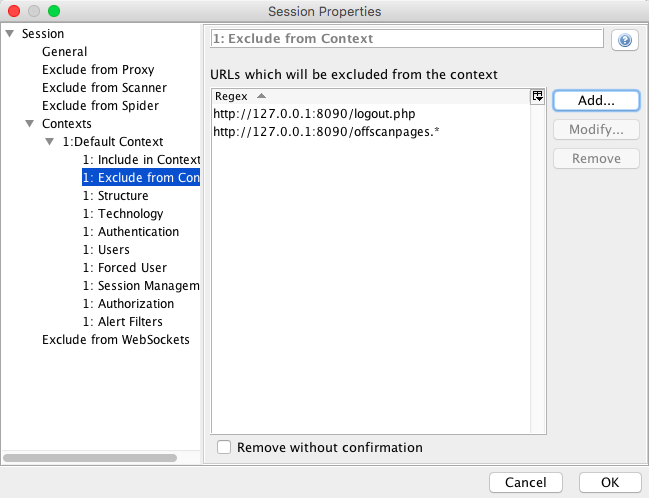
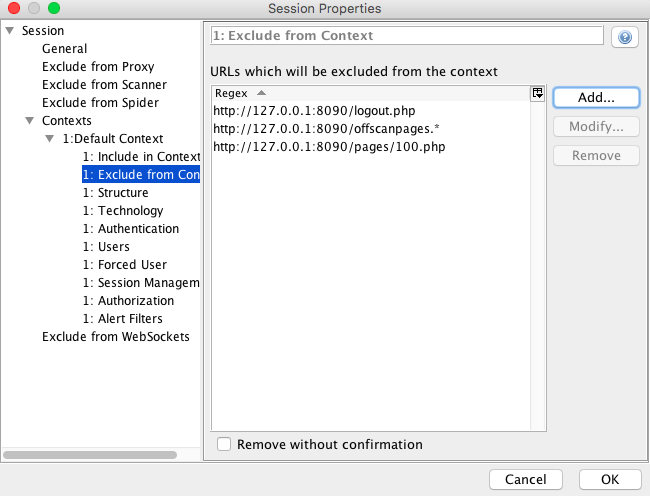
fixed zap wivet blog

Changed region(s): [[0.0, 0.0, 1.0, 0.998]]

diff --git a/_posts/WAVS/ZAP/2018-05-04-zap-wivet.md b/_posts/WAVS/ZAP/2018-05-04-zap-wivet.md
@@ -30,13 +30,14 @@ This will open up the Session Properties window and you'll notice that the URL h
 ```*
 http://127.0.0.1:8090/offscanpages.*
 http://127.0.0.1:8090/logout.php
+http://127.0.0.1:8090/pages/100.php
 ```
 
 The Session Properties window should now look like this:
 
 <center><img src="/images/blogs/zap/exclude_context_wivet.png" width="60%" height="60%" style="border: 2px solid black"/></center><br>
 
-Click OK to save your changes. We added the first link so that the spider does not attack the off scan pages which are the "Statistics", "Current Run" and "About" pages. Similarly, we added the second link so that the spider does not click on the logout link and logout/exit from the application before the scan is done. 
+Click OK to save your changes. We added the first link so that the spider does not attack the off scan pages which are the "Statistics", "Current Run" and "About" pages. Similarly, we added the second and third link so that the spider does not click on the logout link and logout/exit from the application before the scan is done. 
 
 The last configuration we have to do is setting the HTTP session to active. Since first we'll run the spider, then the ajax spider and lastly the active scan, with each run a new HTTP session will be generated on the WIVET application. In order to avoid that, click on the "+" sign in the bottom tab and select HTTP Sessions. 
 
